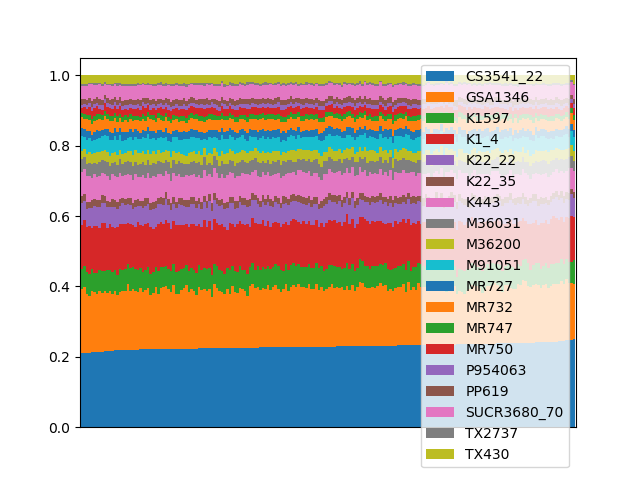
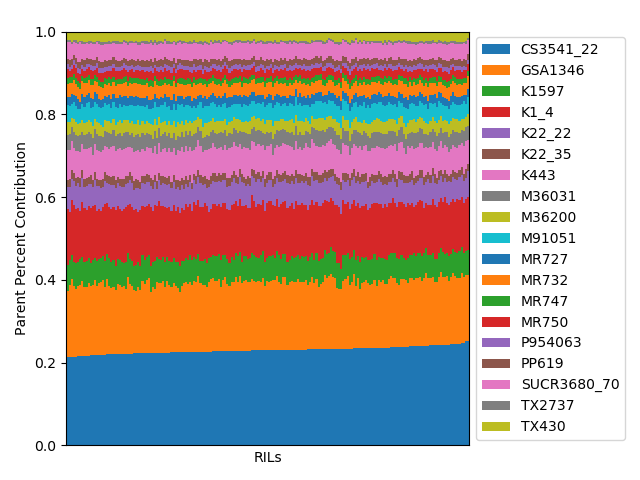
Updated images and plot style

diff --git a/mpp_percentages.py b/mpp_percentages.py
@@ -120,6 +120,9 @@ def plot_percentages_sorted_by_parent(df, sort_parent, output):
         bottom=False,       # ticks along the bottom edge are off
         top=False,          # ticks along the top edge are off
         labelbottom=False)  # labels along the bottom edge are off
+    plt.ylim(0,1)
+    plt.xlabel("RILs")
+    plt.ylabel("Parent Percent Contribution")
     plt.tight_layout()
     plt.savefig(output)
 

diff --git a/README.md b/README.md
@@ -24,8 +24,10 @@ required arguments:
 ```
 
 ## Examples
-RIL Example
+RIL Example  
+
 ![RIL](./images/RIL.barplot.png?raw=true "RIL")
 
-MAGIC Example
+MAGIC Example  
+
 ![MAGIC](./images/MAGIC.barplot.png?raw=true "MAGIC")
